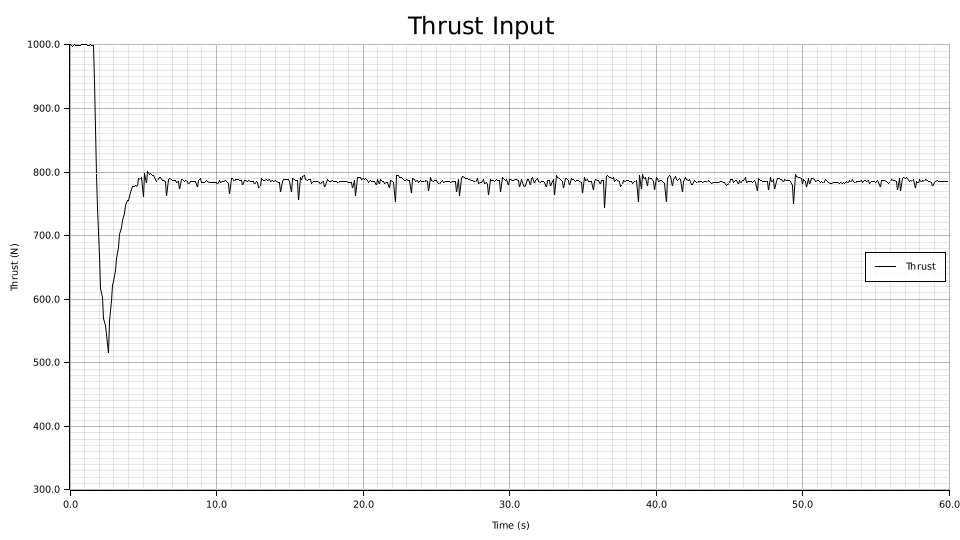
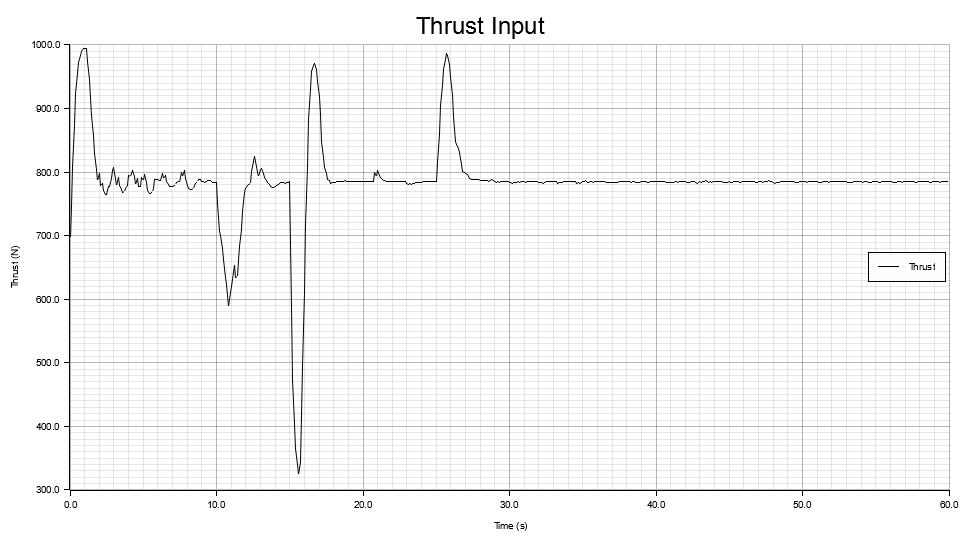
Add control smoothing
Add better control smoothing to MPC algorithm, done using an exponential filter.

Issue: setting an initial reference point close to the origin when the rocket is on the ground causes MPC algorithm to calculate close to minimum thrust. Smaller thrust causes gimbal angles to go crazy.

diff --git a/MPC/src/main.rs b/MPC/src/main.rs
@@ -29,9 +29,16 @@ fn main() {
     xref[2] = 10.0;
     xref[6] = 1.0; // reference orientation: level (unit quaternion)
 
+    let mut z_integral = 0.0;
+    let mut y_integral = 0.0;
+    let mut x_integral = 0.0;
+    let ki_z = 0.05;
+    let ki_y = 0.01;
+    let ki_x = 0.01;
+
     // Reference trajectory
-    let xref_traj = Array2::from_shape_fn((n_steps + 1, n), |(_, j)| xref[j]);
-    let xref_traj_vec: Vec<Array1<f64>> = xref_traj.axis_iter(ndarray::Axis(0)).map(|row| row.to_owned()).collect();
+    let mut xref_traj = Array2::from_shape_fn((n_steps + 1, n), |(_, j)| xref[j]);
+    let mut xref_traj_vec: Vec<Array1<f64>> = xref_traj.axis_iter(ndarray::Axis(0)).map(|row| row.to_owned()).collect();
 
     // Warm start: hover thrust (thrust = mass * gravity, gimbal angles = 0)
     let m_rocket = 80.0;
@@ -68,7 +75,7 @@ fn main() {
 
     // Store state and control history for plotting
     let mut x_history = Vec::with_capacity(iters);
-    let mut u_history = Vec::with_capacity(iters);
+    let mut u_history: Vec<Array1<f64>> = Vec::with_capacity(iters);
 
     let tolerance = 1e-4;
     let lbfgs_memory = 20;
@@ -77,9 +84,56 @@ fn main() {
     let mut panoc_cache = optimization_engine::panoc::PANOCCache::new(n_dim_u, tolerance, lbfgs_memory);
 
     // smoothing weight vector (for gimbal_theta, gimbal_phi, thrust)
-    let smoothing_weight = Array1::from(vec![500.0, 500.0, 0.02]);
+    let smoothing_weight = Array1::from(vec![1500.0, 1500.0, 0.02]);
 
-    for _ in 0..iters {
+    for k in 0..iters {
+
+        if k as f64 * dt <= 10.0 {
+            
+            // change reference point after 5 seconds
+            let f_iters = iters as f64;
+            let f_k = k as f64;
+            xref[0] = -0.0 * (f_k*dt)/10.0;
+            xref[1] = 0.0 * (f_k*dt)/10.0;
+            xref[2] = 25.0 * (f_k*dt)/10.0 + 3.0;
+
+            xref_traj = Array2::from_shape_fn((n_steps + 1, n), |(_, j)| xref[j]);
+            xref_traj_vec = xref_traj.axis_iter(ndarray::Axis(0)).map(|row| row.to_owned()).collect();
+             
+        } else if k as f64 * dt > 15.0 && k as f64 * dt <= 25.0 {
+            
+            // change reference point after 10 seconds
+            let f_iters = iters as f64;
+            let f_k = k as f64;
+            xref[0] = 0.0 * ((f_k*dt)-15.0)/10.0;
+            xref[1] = 0.0 * ((f_k*dt)-15.0)/10.0;
+            xref[2] = 25.0 - 25.0 * ((f_k*dt)-15.0)/10.0;
+
+            xref_traj = Array2::from_shape_fn((n_steps + 1, n), |(_, j)| xref[j]);
+            xref_traj_vec = xref_traj.axis_iter(ndarray::Axis(0)).map(|row| row.to_owned()).collect();
+        } 
+
+        let z_error = xref[2] - x[2];
+        z_integral += z_error * dt;
+        let mut x_ref_mod = xref.clone();
+        x_ref_mod[2] += ki_z * z_integral; // modify z reference with integral term
+        for i in 0..xref_traj_vec.len() {
+            xref_traj_vec[i][2] = x_ref_mod[2];
+        }
+        let x_error = xref[0] - x[0];
+        x_integral += x_error * dt;
+        x_ref_mod[0] += ki_x * x_integral; // modify x reference with integral term
+        for i in 0..xref_traj_vec.len() {
+            xref_traj_vec[i][0] = x_ref_mod[0];
+        }
+        let y_error = xref[1] - x[1];
+        y_integral += y_error * dt;
+        x_ref_mod[1] += ki_y * y_integral; // modify y reference with integral term
+        for i in 0..xref_traj_vec.len() {
+            xref_traj_vec[i][1] = x_ref_mod[1];
+        }
+
+
         // display progress
         println!("Time step: {}/{}", x_history.len() + 1, iters);
         // Solve MPC to get optimal control sequence
@@ -89,8 +143,27 @@ fn main() {
         // let (u_warm_vec, x_new, u_apply) = mpc_main(&x, &mut u_warm_vec, &xref_traj_vec, &q, &r, &qn, &u_min, &u_max, 2, 0.05);
         
         // OR we solve using OpEn
-        let (u_apply, u_warm) = mpc_crate::OpEnSolve(&x, &u_warm.axis_iter(ndarray::Axis(0)).map(|row| row.to_owned()).collect(), &xref_traj_vec, &q, &r, &qn, &smoothing_weight, &mut panoc_cache);
-        
+        let (mut u_apply, u_warm) = mpc_crate::OpEnSolve(&x, &u_warm.axis_iter(ndarray::Axis(0)).map(|row| row.to_owned()).collect(), &xref_traj_vec, &q, &r, &qn, &smoothing_weight, &mut panoc_cache);
+
+        //use an average between the current and the past 2 control inputs for smoother application
+        /*
+        if k >= 2 {
+            let u_prev2 = u_history[k - 2].clone();
+            let u_prev1 = u_history[k - 1].clone();
+            u_apply = (&u_prev2 + &u_prev1 + &u_apply) / 3.0;
+        } else if k == 1 {
+            let u_prev1 = u_history[k - 1].clone();
+            u_apply = (&u_prev1 + &u_apply) / 2.0;
+        }
+            */
+
+        // exponential filter
+        if k >= 1 {
+            let alpha = 0.4; // smoothing factor
+            let u_prev = u_history[k - 1].clone();
+            u_apply = alpha * &u_apply + (1.0 - alpha) * &u_prev;
+        }
+
         u_history.push(u_apply.clone());
 
         // Simulate dynamics for one time step
